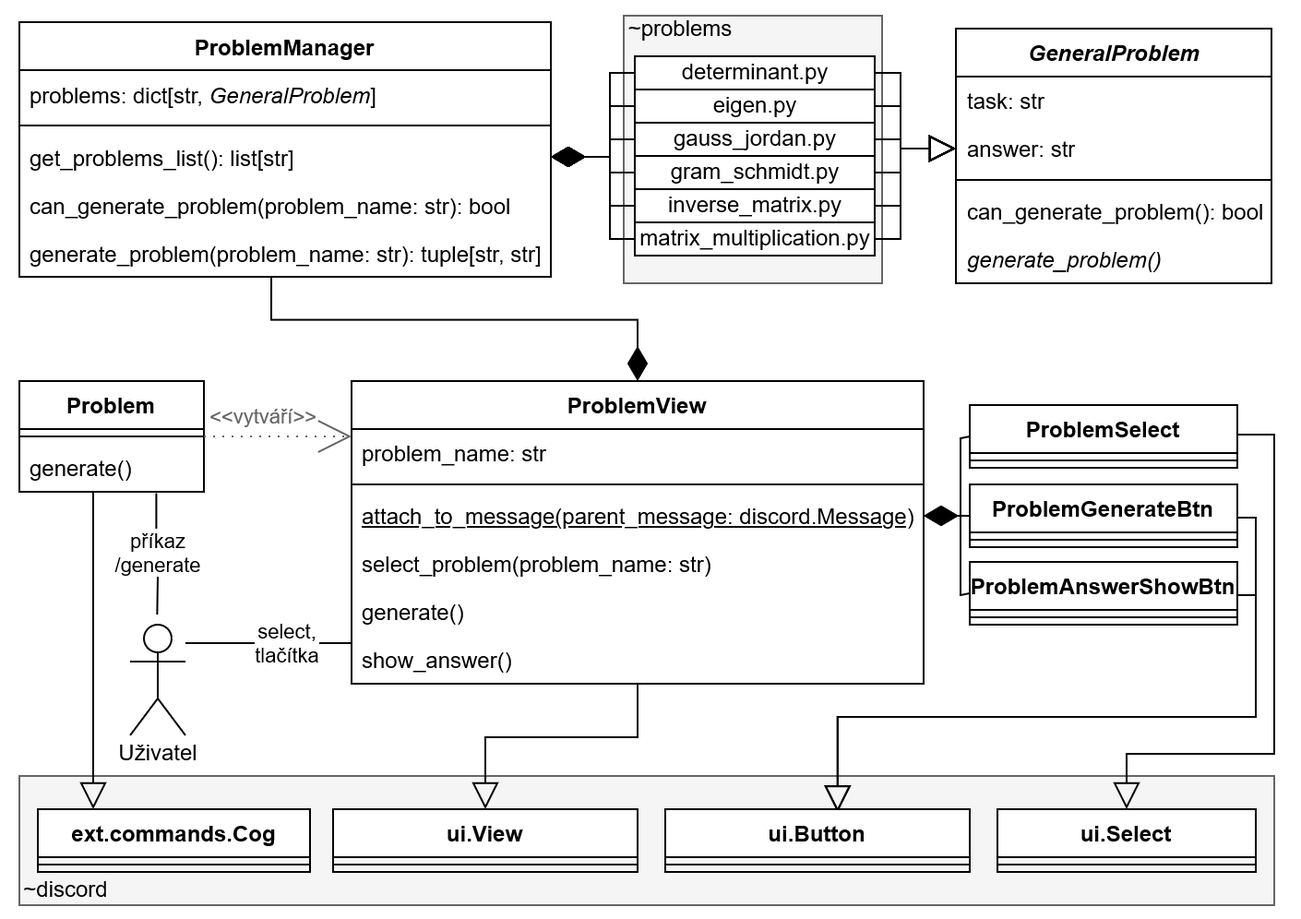
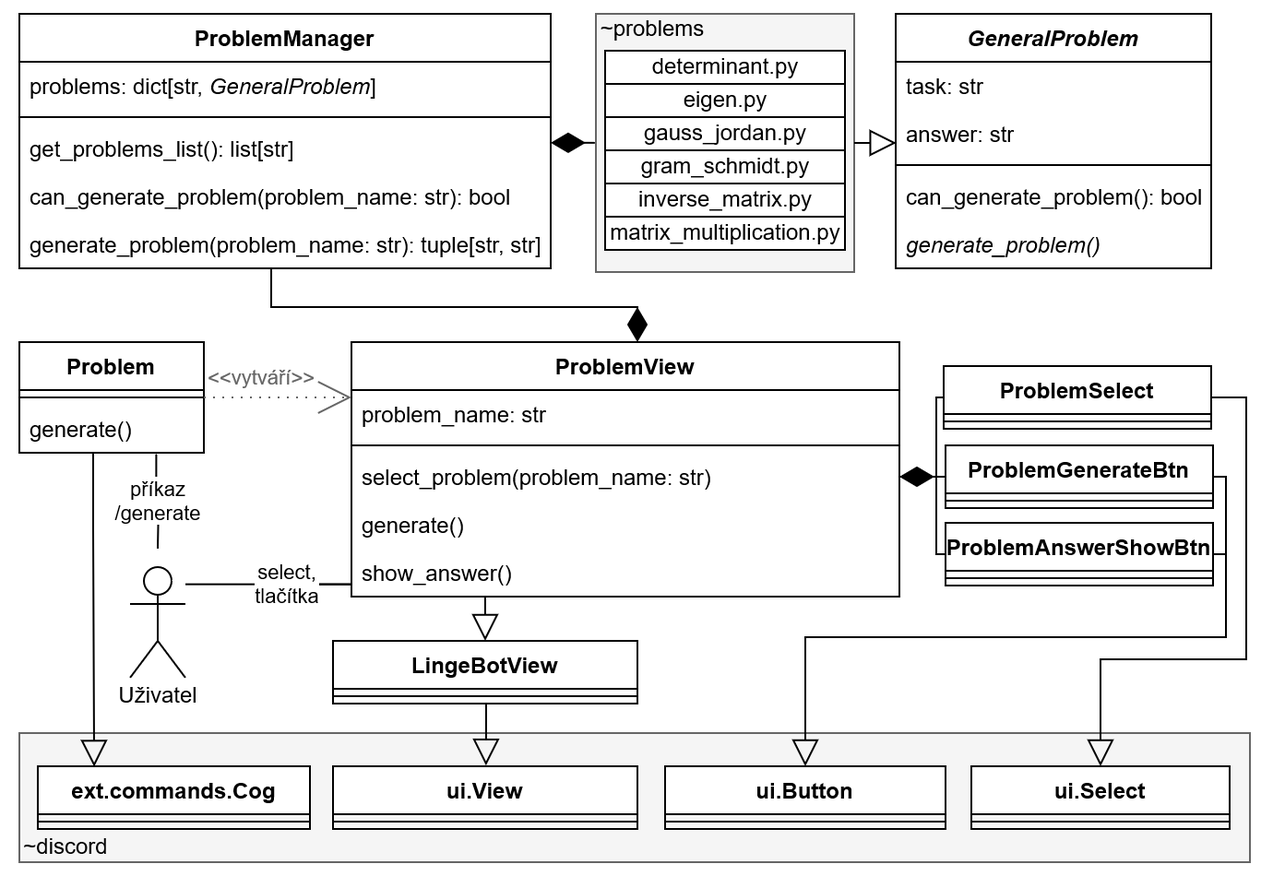
(thesis wip 29)

Changed region(s): [[0.0, 0.0, 0.9971, 0.9768], [0.7167, 0.2747, 0.9659, 0.3358], [0.8413, 0.7632, 0.8725, 0.7937]]

diff --git a/Thesis/document.tex b/Thesis/document.tex
@@ -16,6 +16,8 @@
 \usepackage[table]{xcolor}  % Tabulka s různě barevnými řádky
 % Zdrojové kódy
 \input{code/syntaxhighlight}
+% Barevný verb
+\usepackage{newverbs}
 
 % Pro seznam použité literatury
 \usepackage[backend=biber, style=iso-numeric]{biblatex}
@@ -363,11 +365,11 @@
 	
 	Zvyk ohledně cog souborů (viz \ref{_tag_section_discordpy}) byl během implementace bota dodržen. Logika vykonání příkazů ale byla ve většině případů oddělena do jiných souborů, které se v pomyslné hierarchii projektu nachází na jiné úrovni. Cogs je pak importují a pouze volají jejich metody. Podle toho, zdali jsou tyto ,,jiné`` soubory závislé na knihovně discord.py, je lze rozdělit do dvou skupin.
 	
-	Soubory, jež Discord knihovnu importují (ale nejedná se o cogs), se nachází v adresáři \textit{d\_modules} (zkráceně pro \textit{Discord modules}). Je v nich implementována logika, která je společná pro více příkazů, jako je kontrola oprávnění pro spuštění příkazu nebo odesílání a mazání textových zpráv. Zároveň se zde nachází veškerá logika pro obsluhu interaktivních prvků (např. tlačítek nebo vyskakovacího okna), ale i modul obsahující definici samotného bota.
+	Soubory, jež Discord knihovnu importují, ale nejedná se o cogs, se nachází v adresáři \textit{d\_modules}. Je v nich implementována logika, která je společná pro více příkazů, jako je kontrola oprávnění pro spuštění příkazu nebo odesílání a mazání textových zpráv. Zároveň se zde nachází veškerá logika pro obsluhu interaktivních prvků jako tlačítek a vyskakovacích oken, ale i modul obsahující definici samotného bota.
 	
-	Druhá skupina souborů, které neimportují discord.py, se nachází v adresáři \textit{utils} (zkráceně pro \textit{utilities}). Metody těchto modulů jsou importovány a používány především v \textit{d\_modules} pro společnou funkcionalitu, která je nezávislá na Discordu. Tyto moduly naopak importují knihovny jako sqlite, Matplotlib nebo SymPy a starají se tedy o práci s databází, vykreslování matematických výrazů nebo generování příkladů. % šly by teoreticky použít v jiné aplikaci, problems dostaly vlastní adresář a balík(?)
+	Druhá skupina souborů, které neimportují discord.py, se nachází v adresáři \textit{utils}. Metody těchto modulů jsou importovány a používány především v \textit{d\_modules} pro společnou funkcionalitu, která je nezávislá na Discordu. Tyto moduly naopak importují knihovny jako sqlite, Matplotlib nebo SymPy a starají se tedy o práci s databází, vykreslování matematických výrazů nebo generování příkladů. % šly by teoreticky použít v jiné aplikaci, problems dostaly vlastní adresář a balík(?)
 	
-	Vedle těchto adresářů se ještě nachází soubory \textit{config.json} (pro uložení tokenu bota), \textit{db\_init.py} (vytvoření databáze), \textit{run.py} (spuštění bota) a adresáře \textit{\_database}, \textit{\_logs} a \textit{\_static}. Adresář \textit{\_static} obsahuje Markdown soubory s výpisky z teorie a návody pro počítání příkladů. % nic moc odstavec
+	Vedle těchto adresářů se ještě nachází soubory \textit{config.json} (uložení tokenu bota), \textit{db\_init.py} (vytvoření databáze), \textit{run.py} (spuštění bota) a adresáře \textit{\_database}, \textit{\_logs} a \textit{\_static}. Adresář \textit{\_static} obsahuje Markdown soubory s výpisky z teorie a návody pro počítání příkladů. % nic moc odstavec
 	
 	\begin{figure}[ht]
 		\centering
@@ -377,89 +379,137 @@
 
 	\subsection{Implementace vykreslování matematických výrazů}
 
-	První verze implementace příkazu \verb|/render| byla prostá. Pomocí balíku Matplotlib je vytvořen prázdný obrázek (\textit{figure}), jehož barva odpovídá barvě pozadí Discord klienta ve výchozím nastavení. Parametr příkazu, který obsahuje předpis matematického výrazu, je do obrázku vložen jako text se zapnutým parametrem \textit{render\_math}. Balík Matplotlib se postará o správné vykreslení výrazu a obrázek je uložen do souboru, který je následně odeslán do textového kanálu. Později bylo ukládání do souboru nahrazeno bytovým proudem \textit{io.BytesIO}, který souborové rozhraní pouze simuluje.
+	První verze implementace příkazu \verb|/render| byla prostá. Pomocí balíku Matplotlib je vytvořen prázdný obrázek \textit{figure}, jehož barva odpovídá barvě pozadí Discord klienta ve výchozím nastavení. Parametr příkazu, který obsahuje předpis matematického výrazu, je do obrázku vložen jako text se zapnutým parametrem \textit{render\_math}. Balík Matplotlib se postará o správné vykreslení výrazu a obrázek je uložen do souboru, který je následně odeslán do textového kanálu. Později bylo ukládání do souboru nahrazeno proudem \textit{io.BytesIO}, který souborové rozhraní pouze simuluje.
 
 	Výklad lineární algebry se neobejde bez vykreslování matic, ty ale Matplotlib Mathtext nepodporuje. Balík sice umožňuje nastavit, aby vykreslování používalo místní TeX distribuci, během implementace ale nebylo jasné, kde bude výsledný bot nasazen a jestli zde bude možné TeX nainstalovat. Vykreslování tímto způsobem je navíc pomalejší. Proto byla pro účely bota napsána vlastní logika vykreslování matic.
 	
-	U textu vkládaného do Matplotlib obrázku lze nastavit i jeho souřadnice $x$ a $y$. Matice na vstupu je tedy rozdělena na její jednotlivé prvky, které jsou vykresleny zvlášť na odpovídajících souřadnicích. Pomocí úseček jsou pak vytvořeny hranaté závorky matice. Problém může nastat při určování souřadnic jednotlivých prvků v matici.
+	U textu vkládaného do Matplotlib obrázku lze nastavit i jeho souřadnice $x$ a $y$. Matice na vstupu implementované vykreslovací funkce je rozdělena na své jednotlivé prvky, které jsou vykresleny zvlášť na odpovídajících souřadnicích. Pomocí úseček jsou pak vytvořeny hranaté závorky matice. Problém může nastat při určování souřadnic jednotlivých prvků v matici.
 	
-	Pokud jsou všechny prvky matice jednociferná čísla, pak jejich souřadnice $x$ odpovídá číslu sloupce a $y$ číslu řádku v matici. Tyto souřadnice jsou ještě vynásobeny konstantou, která určuje velikost mezery mezi jednotlivými prvky\footnote{Konstanta u souřadnice $y$ by měla být záporná, protože řádky matice jsou obvykle číslovány odshora, zatímco souřadnice v Matplotlib obrázku mají počátek vlevo dole. V této implementaci je to ale vyřešeno tak, že se jednotlivé řádky matice při vykreslování procházejí pozpátku.}. Jakmile by ale byl některý z prvků matice širší (např. trojciferné číslo), začal by se překrývat se svými sousedními prvky. Proto je potřeba přidat funkcionalitu, která dokáže zjistit šířku prvku v matici. Odsazení je pak nastaveno podle nejširšího nalezeného prvku.
+	Pokud jsou všechny prvky matice jednociferná čísla, pak jejich souřadnice $x$ odpovídá číslu sloupce a $y$ číslu řádku v matici. Tyto souřadnice jsou ještě vynásobeny konstantou, která určuje velikost mezery mezi jednotlivými prvky\footnote{Konstanta u souřadnic $y$ by měla být záporná, protože řádky matice jsou obvykle číslovány odshora, zatímco souřadnice v Matplotlib obrázku mají počátek vlevo dole. V této implementaci je to ale vyřešeno tak, že se jednotlivé řádky matice při vykreslování procházejí pozpátku.}. Jakmile by ale byl některý z prvků matice širší (např. trojciferné číslo), začal by se překrývat se svými sousedními prvky. Proto je potřeba přidat funkcionalitu, která dokáže zjistit šířku prvku v matici. Odsazení je pak nastaveno podle nejširšího nalezeného prvku.
 	
 	Šířku prvku lze určit jeho dočasným vykreslením do samostatného obrázku, u kterého jsou následně zjištěny jeho rozměry. Tento obrázek je opět uložen do proudu BytesIO, který je po zjištění šířky zahozen. Takovýto způsob není nejefektivnější (zejména u vykreslování větších matic), a proto byla implementována rychlejší metoda, která šířku prvků pouze aproximuje.
 
-	Cílem metody je pro zadaný matematický výraz v TeX syntaxi vrátit číslo, které odpovídá jeho délce. Jednotkou délky je počet nejkratších znaků. Písmo vykreslených matematických výrazů je totiž proporcionální a některé znaky tedy mohou být širší než jiné. Za nejkratší znaky se v tomto případě považují číslice a většina malých písmen. Protože se jedná pouze o aproximaci, je důležité, aby metoda délku výrazu přeceňovala (podcenění by opět vedlo k překrývání sousedních prvků matice).
+	Cílem metody je pro zadaný matematický výraz v TeX syntaxi vrátit číslo, které odpovídá jeho délce. Jednotkou délky je počet nejkratších znaků. Písmo vykreslených matematických výrazů je totiž proporcionální a některé znaky tedy mohou být širší než jiné. Za nejkratší znaky se v tomto případě považují číslice a většina malých písmen. Protože se jedná pouze o aproximaci, je důležité, aby metoda délku výrazu přeceňovala. Podcenění by opět vedlo k překrývání sousedních prvků matice.
+		
+	\begin{figure}[ht]
+		\begin{lstlisting}[language=Pseudo1]
+Funkce __approx_tex_len(text: str, nahradit_zlomky: bool) vrací int:
+Krok 1:
+	Pokud nahradit_zlomky:
+		Nahraď všechny výrazy v text ve tvaru "\frac{Č}{J}"
+		za výstup funkce __approx_tex_frac_replace(Č, J).
+Krok 2:
+	Nahraď všechny podřetězce v text,
+	které začínají na "\" a končí libovolným nepísmenným znakem,
+	za dvouznakový řetězec "00".
+Krok 3:
+	Nahraď všechny znaky v text,
+	které se zároveň nachází v "+-=ABCDEFGHKMNOPQRUVWXYZmw",
+	za dvouznakový řetězec "00".
+Krok 4:
+	Odstraň všechny znaky z text,
+	které se zároveň nachází v " _^{}[]".
+Krok 5:
+	Vrať délku upraveného řetězce text.
 	
-	Metoda postupně upravuje vstupní řetězec a nakonec vrací jeho délku (aproximovaná délka vstupního řetězce odpovídá jeho počtu znaků po provedení určitých úprav). Prvním krokem je nahrazení částí textu, které začínají zpětným lomítkem a končí libovolným nepísmenným znakem, za řetězec \verb|00| (dvě nuly). To, že je nahrazujícím znakem nula, není podstatné. Důležité je, že jsou nuly právě dvě. Stejným řetězcem jsou nahrazeny také symboly, u kterých bylo zjištěno, že jsou delší než běžná číslice (např. velká písmena nebo symbol $+$ (plus)). Nakonec jsou zahozeny znaky jako mezery nebo závorky. %todo první věta je žalostná
-	
-	Řetězec \verb|1+\sqrt{2}| (vykreslen jako $1+\sqrt{2}$) je tedy po úpravách změněn na \verb|100002| (podřetězce \verb|+| a \verb|\sqrt| jsou nahrazeny dvěma nulami, závorky jsou zahozeny, výsledná délka je 6 znaků). Délka řetězce \verb|1+\sqrt[N]{2}| ($1+\sqrt[N]{2}$), který je po vykreslení stejně dlouhý, je takto vyhodnocena na 8 znaků, protože velké písmeno přidává další dvě nuly. To je příklad přecenění délky výrazu, jehož důsledkem jsou pak širší mezery mezi prvky v matici.
-	
-	Při určování délky jsou problémové také zlomky psané jako \verb|\frac{x}{y}|, jejichž šířka může být v nejhorším případě vyhodnocena jako dvojnásobek té skutečné (pokud je délka čitatele i jmenovatele stejně dlouhá). Proto se před provedením prvního kroku metoda nejprve rekurzivně volá na všechny zlomky ve vstupním řetězci, které jsou po jejím provedení nahrazeny řetězcem o aproximované délce jejich čitatele, nebo jmenovatele (podle toho, který je delší).
+Funkce __approx_tex_frac_replace(čitatel, jmenovatel: str) vrací str:
+	délka_čitatele = __approx_tex_len(čitatel, false)
+	délka_jmenovatele = __approx_tex_len(jmenovatel, false)
 
-	Stejný problém jako zlomky také způsobují např. kombinační čísla (psaná jako \verb|\binom{x}{y}|), ta se ale běžně v maticích nenachází. Popisovaná metoda by šla dále vylepšovat pro mnoho dalších případů, které by mohly nastat. Jelikož ale byla navržena pro určování šířky prvků v matici, všechny časté scénáře by již měly být pokryté.
-
-	Jelikož je pro vykreslování matic použita vlastní implementace, bylo možné zvolit styl jejich zápisu. Pro svou přehlednost, snadné strojové zpracování a rychlost zápisu byla zvolena syntax podobná maticím v prostředí MATLAB: Do hranatých závorek jsou postupně vypsány prvky matice oddělené čárkou a pro oddělení jednotlivých řádků se místo čárky píše středník.
-
-	Po implementaci metod pro vykreslení základních matematických výrazů a matic bylo potřeba tyto metody zkombinovat, aby bylo možné vykreslovat rovnice obsahující více matic. Uživatelský vstup je nejprve nutné rozdělit na maticové a nematicové části (podvýrazy), pro jejichž vykreslení je pak zvolena příslušná metoda. První podvýraz je vykreslen na nulové souřadnici $x$, která se postupně zvětšuje o aproximovanou délku podvýrazu. Při rozdělování na podvýrazy je nutné ignorovat hranaté závorky u odmocnin (maticový podvýraz je totiž detekován podle hranatých závorek). Aby byl celý výraz správně vertikálně zarovnán, je potřeba předem zjistit počet řádků té nejvyšší matice a podle ní zarovnat zbytek.
+	Vrať řetězec tvořený znaky "0"
+	o délce maximum(délka_čitatele, délka_jmenovatele).
+		\end{lstlisting}
+		\caption{Pseudokód aproximace délky vykresleného výrazu}
+	\end{figure}
 	
-	Posledním krokem bylo přidání podpory pro víceřádkové výrazy zarovnané podle určitého znaku (obvykle podle rovnítka). Pomocí dvou zpětných lomítek je v uživatelském vstupu označen nový řádek. Na každém řádku lze zapsat ampersand, který není vykreslen ve výsledném obrázku a značí, že následující symbol je ten zarovnávací. Každý řádek je podle ampersandu rozdělen na levou a pravou část. Obě tyto části jsou vykresleny na nulové souřadnici $x$, u té levé je ale nastaveno zarovnání doprava (Matplotlib toto u textu umožňuje nastavit parametrem \textit{horizontalalignment}). Vlastní metoda pro vykreslování matic ale nepočítá s přenastavováním zarovnání. Pokud se tedy v levé části řádku nachází matice, je nutné řádek zarovnat opět s pomocí metody pro aproximaci délky výrazu. %todo ne v levé části řádku ale v celém řádku, díky této kontrole lze vynechat krok s maticemi a rovnou sázet mathTEXt
+	\newverbcommand{\h}{\color{color_cyan!95!black}}{}
+	\begin{table}[ht]
+		\centering
+		\caption{Příklady aproximace délky vykresleného výrazu}\medskip
+		\begin{tabular}{ l | l >{\columncolor{gray!10}}l l }\hline
+			&&&\\[-1em]
+			\textbf{Krok 1}&\verb|1+\sqrt{t}|&\verb|1+\sqrt[N]{t}|&\verb|t^2\approx|\h|\frac{123}{4}|\\
+			&\verb|1+\sqrt{t}|&\verb|1+\sqrt[N]{t}|&\verb|t^2\approx|\h|000|\\\hline
+			&&&\\[-1em]
+			\textbf{Krok 2}&\verb|1+|\h|\sqrt|\verb|{t}|&\verb|1+|\h|\sqrt|\verb|[N]{t}|&\verb|t^2|\h|\approx|\verb|000|\\
+			&\verb|1+|\h|00|\verb|{t}|&\verb|1+|\h|00|\verb|[N]{t}|&\verb|t^2|\h|00|\verb|000|\\\hline
+			&&&\\[-1em]
+			\textbf{Krok 3}&\verb|1|\h|+|\verb|00{t}|&\verb|1|\h|+|\verb|00[|\h|N|\verb|]{t}|&\verb|t^200000|\\
+			&\verb|1|\h|00|\verb|00{t}|&\verb|1|\h|00|\verb|00[|\h|00|\verb|]{t}|&\verb|t^200000|\\\hline
+			&&&\\[-1em]
+			\textbf{Krok 4}&\verb|10000|\h|{|\verb|t|\h|}|&\verb|10000|\h|[|\verb|00|\h|]{|\verb|t|\h|}|&\verb|t|\h|^|\verb|200000|\\
+			&\verb|10000t|&\verb|1000000t|&\verb|t200000|\\\hline
+			&&&\\[-1em]
+			\textbf{Krok 5}&6&8&7\\\hline
+			&&&\\[-1em]
+			\textbf{Porovnání}&$1+\sqrt{t}$&$1+\sqrt[N]{t}$&$t^2\approx\frac{123}{4}$\\
+			&$123456$&$12345678$&$1234567$\\
+		\hline\end{tabular}
+	\end{table}
+	
+	Aproximovaná délka vykresleného výrazu odpovídá počtu znaků vstupního řetězce po tom, co je na něm provedeno několik úprav. Kroky 2 a 3 nahrazují určité části textu řetězcem s dvěma nulami. To, že je nahrazujícím znakem nula, není podstatné. Důležité je, že jsou nuly právě dvě. Následující krok odebere řídící znaky a mezery, pak už je vrácena délka řetězce.
+	
+	Při určování délky jsou problémové zlomky psané jako \verb|\frac{Č}{J}|. V nejhorším případě, pokud je délka čitatele \textit{\texttt{Č}} i jmenovatele \textit{\texttt{J}} stejně dlouhá, by byla šířka zlomku vyhodnocena jako dvojnásobek té skutečné. Proto byl přidán krok 1, ve kterém se metoda rekurzivně volá na všechny zlomky ve vstupním řetězci. Ty jsou pak nahrazeny řetězcem o aproximované délce jejich čitatele, nebo jmenovatele.
+
+	Stejný problém jako zlomky také způsobují kombinační čísla \verb|\binom{N}{K}|, ta se ale běžně v maticích nenachází. Popisovaná metoda by šla dále vylepšovat pro mnoho dalších případů, které by mohly nastat. Jelikož ale byla navržena pro určování šířky prvků v matici, všechny časté scénáře by již měly být pokryté. % \iota
+
+	Jelikož je pro vykreslování matic použita vlastní implementace, bylo možné zvolit styl jejich zápisu. Pro svou přehlednost, snadné strojové zpracování a rychlost zápisu uživatelem byla zvolena syntax podobná maticím v prostředí MATLAB: Do hranatých závorek jsou postupně vypsány prvky matice oddělené čárkou a pro oddělení jednotlivých řádků se místo čárky píše středník.
+
+	Po implementaci metod pro vykreslení základních matematických výrazů a matic bylo potřeba tyto metody zkombinovat, aby bylo možné vykreslovat rovnice obsahující více matic. Uživatelský vstup je nejprve nutné rozdělit na maticové a nematicové části (podvýrazy), pro jejichž vykreslení je pak zvolena příslušná metoda. První podvýraz je vykreslen na nulové souřadnici $x$, která se postupně zvětšuje o aproximovanou délku podvýrazu. Při rozdělování na podvýrazy je nutné ignorovat hranaté závorky u odmocnin, maticový podvýraz je totiž detekován podle hranatých závorek. Aby byl celý výraz správně vertikálně zarovnán, je potřeba předem zjistit počet řádků té nejvyšší matice a podle ní určovat souřadnici $y$ zbylých podvýrazů.
+	
+	Posledním krokem bylo přidání podpory pro víceřádkové výrazy zarovnané podle určitého znaku. Obvykle se zarovnává podle rovnítka. Pomocí dvou zpětných lomítek je v uživatelském vstupu označen nový řádek. Na každém řádku lze zapsat ampersand, který není vykreslen ve výsledném obrázku a značí, že následující symbol je ten zarovnávací. Každý řádek je podle ampersandu rozdělen na levou a pravou část. Obě tyto části jsou vykresleny na nulové souřadnici $x$, u té levé je ale nastaveno Matplotlib zarovnání vpravo pomocí parametru \textit{horizontalalignment}.
+	
+	Vlastní metoda pro vykreslování matic ale nepočítá s přenastavováním zarovnání na úrovni balíku Matplotlib. Pokud se tedy ve zpracovávaném řádku nachází matice, pak je jeho levá část zarovnána pomocí metody pro aproximaci délky výrazu: Matplotlib zarovnání je ponecháno za výchozí hodnotě vlevo a souřadnice $x$ je rovna záporné aproximované délce. V opačném případě, kdy se v řádku žádné matice nevyskytují, je krok s rozdělováním na podvýrazy přeskočen a rovnou se sází Matplotlib Mathtext.
 	
 	\subsection{View a interaktivní prvky}
 	
-	K odeslané zprávě s vykresleným matematickým výrazem je přidána trojice tlačítek \textit{Potvrdit}, \textit{Upravit} a \textit{Smazat}. Aby mohl být ke zprávě přidán jakýkoliv interaktivní prvek, musí být nejprve vytvořen tzv. view (pohled). View slouží jako kontejner pro všechny interaktivní prvky a ke zprávě je přidán přes stejnojmenný parametr (viz obrázek \ref{_tag_img_discordpy}). Pro definici složitější view logiky je možné vytvořit třídu, která dědí z obecného view. Do této třídy se pak přidají atributy pro uchování určitého stavu a metody pro změnu tohoto stavu. Každý interaktivní prvek má referenci na své view, díky tomu v něm lze např. po stisknutí tlačítka volat určitou metodu.
+	K odeslané zprávě s vykresleným matematickým výrazem je přidána trojice tlačítek \textit{Potvrdit}, \textit{Upravit} a \textit{Smazat}. Aby mohl být ke zprávě přidán jakýkoliv interaktivní prvek, musí být nejprve vytvořeno tzv. view. To slouží jako kontejner pro všechny interaktivní prvky a ke zprávě je přidáno přes stejnojmenný parametr (viz obrázek \ref{_tag_img_discordpy}). Pro definici složitější view logiky je možné vytvořit třídu, která dědí z obecného view. Do této třídy se pak přidají atributy pro uchování určitého stavu a metody pro změnu tohoto stavu. Každý interaktivní prvek má referenci na své view, díky tomu v něm lze např. po stisknutí tlačítka volat určitou metodu.
 	
-	V tomto případě byla vytvořena třída, která dědí z view a navíc uchovává referenci na zprávu, ke které je přiřazena, a na uživatele, který zadal příkaz vyvolávající tuto zprávu. Odkaz na uživatele se využívá pro kontrolu oprávnění a odkaz na původní zprávu je potřeba pro funkci tlačítka \textit{Smazat}.
+	Pro případy bota byla vytvořena třída \textit{LingeBotView}, která rozšiřuje obecné view. Třída uchovává referenci na zprávu, ke které je přiřazena, a na uživatele, který zadal příkaz vyvolávající tuto zprávu. Odkaz na uživatele se využívá pro kontrolu oprávnění. Odkaz na původní zprávu v tomto případě není potřeba. Z \mbox{LingeBotView} ale dědí další třídy, které se používají pro uživatelské rozhraní výkladu teorie a generace příkladů. Tyto třídy již odkaz na původní zprávu využívají. Protože se obecné view nikde jinde nepoužívá, jsou tyto třídy pro zjednodušení dále v textu nazývány jako view. 
 	
-	Jednotlivá tlačítka také dědí z podobné obecné třídy, u které primárně přepisují metodu \textit{callback} volanou po jejich stisknutí. Tlačítko pro úpravu matematického výrazu navíc musí mít uložený původní uživatelský vstup, který je předvyplněn v textovém vstupu vyvolaného vyskakovacího okna, a barevné schéma, které bylo pro dané vykreslení použito. Vyskakovací okno po svém potvrzení volá stejnou funkci jako příkaz \verb|/render|, jen místo nové zprávy upraví tu původní. Zvolené barevné schéma se uchovává v proměnné, aby se nemuselo při každé úpravě výrazu znovu zjišťovat.
-	
-	Vlastní třídy rozšiřující základní view se používají i pro uživatelské rozhraní výkladu teorie a generace příkladů. Protože byl ve všech případech nakonec potřeba odkaz na rodičovskou zprávu a na zadavatele příkazu, byla pro tyto účely vytvořena třída, která tuto funkcionalitu implementuje a ze které ostatní dědí. Tyto třídy se již používají v samotné obsluze příkazů a dále v textu budou nazývány jako view, jelikož obecné view se už jinde nepoužívá.
-	
-	% TODO  5.2.1, 5.2.2, 5.2.3 vyžadují revizi --------
-	% Důkladně zkontrolovat text
-	% Lepší obrázek u struktury projektu
-	% U popisů funkce lepší použít obr/diagram/pseudokod
-	% Více popsat render align/matrix/... algoritmus ?
-	% TODO ---------------------------------------------
-		
+	Jednotlivá tlačítka také dědí z podobné obecné třídy, u které primárně přepisují metodu \textit{callback} volanou po jejich stisknutí. Tlačítko pro úpravu matematického výrazu navíc musí mít uložený původní uživatelský vstup, který je předvyplněn v textovém vstupu vyvolaného vyskakovacího okna, a barevné schéma, které bylo pro dané vykreslení použito. Vyskakovací okno po svém potvrzení volá stejnou funkci jako příkaz \verb|/render|, jen místo nové zprávy upraví tu původní. Zvolené barevné schéma se uchovává v proměnné, aby se nemuselo při každé úpravě výrazu znovu zjišťovat z databáze.
+			
 	% - zmínit/zjistit WEBHOOKS TOKEN EXPIRATION AFTER 15 MINUTES ?
 	
 	\subsection{Zpracování chyb}
 	
-	Pokud je za běhu bota v nějaké části kódu vyvolána výjimka, neznamená to ukončení programu. Boti napsaní v knihovně discord.py výjimky v podstatě ignorují. Průběh funkce, ve které výjimka vznikla, sice není dokončen a Discord uživateli zahlásí chybové hlášení, bota by však tímto způsobem nemělo být možné vyřadit z provozu. Ve výchozím nastavení knihovny je výjimka vypsána pouze do standardního chybového výstupu.
+	Pokud je za běhu bota v nějaké části kódu vyvolána výjimka, neznamená to ukončení programu. Knihovna discord.py výjimky v podstatě ignoruje. Ve výchozím nastavení jsou pouze vypsány do standardního chybového výstupu. Průběh funkce, ve které výjimka vznikla, sice není dokončen a Discord uživateli zobrazí hlášku ,,interakce se nezdařila``, bota by však tímto způsobem nemělo být možné vyřadit z provozu.
 	
-	Do implementovaného bota byla přidána funkcionalita logování chyb do souboru. Zároveň byl vytvořen cog \textit{on\_error}, který hlásí chyby uživateli. Výjimka, která byla vyvolána z důvodu nedostatečného oprávnění uživatele pro vykonání určité akce, může při používání bota na serveru nastávat běžně. Proto není součástí logování a má svou připravenou odpověď pro uživatele (ve stylu \textit{Nemáte dostatečná oprávnění\dots}). Tuto výjimku vyvolává dekorátor přidaný knihovnou, který kontroluje, zdali je uživatel administrátor. Stejné chování bylo implementováno i do vlastní funkce pro kontrolu oprávnění.
+	Do implementovaného bota byla přidána funkce logování chyb do textového souboru. Zároveň byl vytvořen cog \textit{on\_error}, který hlásí chyby uživateli. Výjimka, která byla vyvolána z důvodu nedostatečného oprávnění uživatele pro vykonání určité akce, může při používání bota na serveru nastávat běžně. Proto není součástí logování a má svou připravenou odpověď. Tuto výjimku vyvolává dekorátor přidaný knihovnou, který kontroluje, zdali je uživatel administrátor. Vyvolání stejné výjimky bylo implementováno i do vlastní funkce pro kontrolu, která bere v potaz roli moderátora a nastavení oprávnění na daném serveru.
 	
-	U ostatních výjimek je do příslušného textového kanálu odeslán polední řádek jejich výpisu. Tento přístup není vždy žádoucí, protože může případným útočníkům pomoci lépe pochopit vnitřní implementaci programu. Zdrojové kódy tohoto bota jsou ale dohledatelné, jelikož je tvořen s možností provozu vlastní instance a případného rozšiřování funkcionality. Díky výpisu chyb do chatu mohou uživatelé tyto chyby snadněji nahlašovat.
+	U ostatních výjimek je do příslušného textového kanálu odeslán polední řádek jejich výpisu. Tento přístup není vždy žádoucí, protože může případným útočníkům pomoci lépe pochopit vnitřní implementaci programu. Zdrojové kódy tohoto bota jsou ale dohledatelné, jelikož je tvořen s možností provozu vlastní instance a případného rozšiřování jeho obsahu. Díky výpisu chyb do chatu mohou uživatelé tyto chyby snadněji nahlašovat.
 	
 	%Pro zdůraznění má text výpisu chyb červenou barvu. Barevný text na Discordu je ale značně omezen. Využívá možnosti odesílat zdrojové kódy se zvýrazněním syntaxe.
 	
 	\subsection{Implementace výkladu teorie}
 
-	% - Zmínit vytvoření samotných Markdown souborů (?)
-	%todo ---------------------------------------------
+	Před implementací logiky výkladu teorie byly vytvořeny samotné Markdown soubory. Ty ve formě převážně odrážkových výpisků pokrývají určitá témata z lineární algebry. Souborů je celkem 13 a zaměřují se především na vektorové prostory a lineární zobrazení mezi nimi.
 
 	Pro výběr teoretického tématu se využívá výběrový seznam. Názvy jednotlivých položek v seznamu odpovídají názvům Markdown souborů, ze kterých se čerpají výpisky pro výklad teorie. Podobně jako u tlačítka lze u výběrového seznamu využít metody \textit{callback}, která se volá po zvolení některé z položek. Název zvolené položky je uložen do atributu, který je již předán do view obstarávajícího zobrazení výpisků.% (\textit{TheoryThemeView}).
 	
-	Po výběru určitého tématu se tedy odešle zpráva obsahující view pro teorii, které si z Markdown souboru načte výpisky ke zvolenému tématu do interní proměnné. Z toho důvodu se změna obsahu v souborech s výpisky projeví až při dalším použití příkazu \verb|/render|. Text výpisků je podle nadpisů druhé úrovně rozdělen na jednotlivá podtémata, jejichž výpis je jediným obsahem úvodní zprávy. Tlačítka \textit{Další}, \textit{Předchozí} a nový výběrový seznam slouží pro přepínání podtémat pomocí metod ve view.
+	Po výběru určitého tématu se tedy odešle zpráva obsahující view pro teorii, které si z Markdown souboru načte výpisky ke zvolenému tématu do interní proměnné. Z toho důvodu se změna obsahu v souborech s výpisky projeví až při dalším použití příkazu \verb|/explain|. Text výpisků je podle nadpisů druhé úrovně rozdělen na jednotlivá podtémata, jejichž seznam je jediným obsahem úvodní zprávy. Tlačítka \textit{Další}, \textit{Předchozí} a nový výběrový seznam využívají metody ve view pro přepínání právě zobrazeného podtématu.
 	
-	Metoda pro změnu podtémat nejprve zpracuje text patřící k aktuálně vybranému podtématu a rozdělí ho na jednotlivé zprávy, které jsou následně odeslány do textového kanálu. Na odeslané zprávy si view drží referenci. Jakmile je podtéma opět změněno a odešlou se zprávy nové, ty staré se smažou (a reference nyní ukazuje na ty nové). Před smazáním starých zpráv se jako nová rodičovská zpráva daného view nastaví ta poslední odeslaná. Díky tomu zůstanou ovládací prvky vždy dole.
+	Metoda pro změnu podtémat nejprve zpracuje text patřící k aktuálně vybranému podtématu a rozdělí ho na jednotlivé zprávy, které jsou následně odeslány do textového kanálu. Na odeslané zprávy si view drží referenci. Jakmile je podtéma opět změněno a odešlou se zprávy nové, ty staré se smažou a reference nyní ukazuje na ty nové. Před smazáním starých zpráv se jako nová rodičovská zpráva daného view nastaví ta poslední odeslaná. Díky tomu zůstanou ovládací prvky vždy dole.
 	
-	Odesílání a mazání více zpráv není okamžité. Discord API obsahuje endpoint pro instantní smazání většího množství zpráv, který je implementován v knihovně discord.py. Tato funkce ale během testování nefungovala spolehlivě a vybrané zprávy nebyly ve zdánlivě náhodných případech smazány. Zprávy navíc nebylo možné po použití funkce smazat běžným způsobem (po jednom). Ekvivalentní endpoint pro odeslání více zpráv neexistuje, proto jsou zprávy odesílány i mazány po jednom. Pokud je zpráv více jak pět, byla mezi jednotlivé akce přidána krátká prodleva, aby se předešlo omezením proti spamu ze strany Discordu (\textit{rate limiting}).
+	Odesílání a mazání více zpráv není okamžité. Discord API obsahuje endpoint pro instantní smazání většího množství zpráv, který je implementován v knihovně discord.py. Tato funkce ale během testování nefungovala spolehlivě a vybrané zprávy nebyly ve zdánlivě náhodných případech smazány. Zprávy navíc nebylo možné po použití této funkce smazat běžným způsobem jednu po druhé. Ekvivalentní endpoint pro odeslání více zpráv neexistuje, proto jsou zprávy odesílány i mazány po jednom. Pokud je zpráv více jak pět, byla mezi jednotlivé akce přidána krátká prodleva, aby se předešlo omezením proti spamu ze strany Discordu (\textit{rate limiting}).
 		
 	% - fwd to dms
 	
 	\subsection{Zpracování Markdown souborů}
 	
-	Při tvorbě materiálů pro výuku matematiky je často potřeba použít určitý matematický symbol nebo výraz jako součást věty. Discord ale neumožňuje horizontálně vkládat obrázky mezi text, a proto je jedinou možností použít znaky Unicode. Pro usnadnění je možné v Markdown souborech využít HTML značek \verb|sup| a \verb|sub| pro psaní horních a dolních indexů. Protože Discord tyto značky nepodporuje, je jejich obsah převeden na Unicode znaky při rozdělování textu do jednotlivých podtémat. Pro převod se používá Python balík \textit{UnicodeIt}. Vytvořené zápisky pro lineární algebru často používají dolní indexy. Počet znaků, které existují v Unicode ve variantě dolního indexu, je ale omezený. Pokud kvůli neexistujícímu znaku nedokáže balík \textit{UnicodeIt} obsah značky \verb|sub| převést, je místo toho daný text vložen mezi zpětné uvozovky. Discord pak tuto část textu reprezentující dolní index zformátuje jako jednořádkový zdrojový kód: Písmo je neproporcionální, má menší velikost a tmavší pozadí. Text se díky tomu více odlišuje od zbytku a tváří se jako pomocný symbol.
+	Při tvorbě materiálů pro výuku matematiky je často potřeba použít určitý matematický symbol nebo výraz jako součást věty. Discord ale neumožňuje horizontálně vkládat obrázky mezi text, a proto je jedinou možností použít znaky Unicode. Pro usnadnění je možné v Markdown souborech využít HTML značek \verb|sup| a \verb|sub| pro psaní horních a dolních indexů. Protože Discord tyto značky nepodporuje, je jejich obsah převeden na Unicode znaky při rozdělování textu do jednotlivých podtémat.
+	
+	Pro převod se používá Python balík \textit{UnicodeIt}. Vytvořené zápisky pro lineární algebru často používají dolní indexy. Počet znaků, které existují v Unicode ve variantě dolního indexu, je ale omezený. Pokud kvůli neexistujícímu znaku nedokáže UnicodeIt obsah značky \verb|sub| převést, je místo toho daný text vložen mezi zpětné uvozovky. Discord pak tuto část textu reprezentující dolní index zformátuje jako jednořádkový zdrojový kód: Písmo je neproporcionální, má menší velikost a tmavší pozadí. Text se díky tomu více odlišuje od zbytku a tváří se jako pomocný symbol.
 	
 	Pro nahrazení textu umístěného mezi dvoudolary za obrázek s vykresleným matematickým výrazem je nejprve celý text podle dvoudolarů rozdělen na části. Aby nebylo nutné detekovat, které části jsou určené pro vykreslení a které jsou obyčejný text, bylo přidáno pravidlo, že zprávy pro vykreslení musí začínat řetězcem \verb|$render|. Tento řetězec je případně zahozen a zbytek textu je vstupem vykreslovací funkce. Pravidla pro zápis jsou tedy stejná jako u příkazu \verb|/render|.
 	
 	Discord sice umožňuje, aby jediná zpráva najednou obsahovala text i obrázky, problémem ale je, že jsou všechny obrázky umístěny na konci zprávy pod veškerým textem. Proto je rozdělování na více zpráv jedinou možností, jak zajistit přesné umístění obrázků v odeslaném textu. Pokud zpráva obsahuje internetový odkaz, který míří na určitý obrázek, pak ho Discord automaticky zobrazí. Umístěním takového odkazu mezi dvoudolary se opět zajistí správné umístění obrázku z internetu.
 	
-	Bot automaticky rozděluje zprávy, které jsou delší než 2000 znaků, kvůli omezením ze strany Discordu. Využívá se Python modulu \textit{textwrap}, díky kterému se rozdělení zprávy může nacházet pouze na místě mezery nebo nového řádku. Pokud by automatické rozdělení nebylo vhodně zvoleno, je možné opět použít dvoudolar, který případně značí, kde bude zpráva rozdělena.
+	Bot automaticky rozděluje zprávy, které jsou delší než 2000 znaků, kvůli omezením ze strany Discordu. Využívá se Python modulu \textit{textwrap}, díky kterému se rozdělení zprávy může nacházet pouze na místě mezery nebo nového řádku. Pokud by automatické rozdělení nebylo vhodně zvoleno, je možné opět použít dvoudolar, který značí, kde bude zpráva rozdělena.
 	
 	\subsection{Implementace generace příkladů}
 	
-	Podobně jako u výkladu teorie, implementace uživatelského rozhraní u generátoru příkladů využívá komplexnějšího view. Logika odesílání zpráv s návodem po stisknutí tlačítka \textit{Jak počítat?} používá stejné funkce jako výklad teorie. Logika zobrazování příkladů a jejich výsledků se už liší.
+	Podobně jako u výkladu teorie, implementace uživatelského rozhraní generátoru příkladů využívá komplexnějšího view. Logika odesílání zpráv s návodem po stisknutí tlačítka \textit{Jak počítat?} používá stejné funkce jako výklad teorie. Logika zobrazování příkladů a jejich výsledků se už liší.
 	
 	Dokud se nevyužije možnosti zobrazení návodu, který může být tvořen více odeslanými zprávami, tak je rodičovská zpráva daného view stále stejná a její obsah je modifikován na základě stisknutých tlačítek. Tato zpráva obsahuje text a maximálně jeden obrázek. View má v sobě uložený řetězec se zadáním a řešením aktuálního příkladu. Po generaci nového příkladu je obsahem zprávy text zadání a po kliknutí na \textit{Zobrazit výsledek} je obsah změněn na text řešení.
 	
@@ -478,7 +528,7 @@
 	
 	Do bota byly přidány generátory příkladů pro výpočet násobení matic, soustav rovnic, inverzních matic, vlastních vektorů a determinantu. Příklady pro výpočet soustavy rovnic obsahují tři neznámé a vedou na Gaussovu–Jordanovu eliminační metodu. Příklad tedy začíná maticí s rozměrem 3$\times$3, která musí být převedena na jednotkovou, a tříprvkovým vektorem s výsledky. Pokud by byla počáteční matice vygenerována úplně náhodně, výsledek by pak pravděpodobně obsahoval desetinná čísla, což není pro výukové materiály vhodné. Proto je nejdříve vytvořena jednotková matice, na které je provedeno několik náhodných gaussovských operací, které nemění její lineární obal. Pro snazší kontrolu obsahuje řetězec s řešením kromě výsledku i mezikrok výpočtu, ve kterém je matice v horním stupňovitém tvaru. Pro tento účel je použita metoda LU rozkladu bez zlomků z balíku SymPy. Po použití této metody je ještě každý řádek matice vydělen jeho největším společným dělitelem. Tato podoba matice se totiž nejvíce podobá té, ke které se uživatel dopracuje při ručním výpočtu Gaussovy eliminační metody.
 	
-	Další kategorií příkladů, kde není vhodné generovat zadání úplně náhodně, je výpočet inverzní matice. V tomto případě je potřeba vygenerovat celočíselnou matici, jejíž inverze je také tvořena celými čísly. Tento požadavek splňují matice, které mají determinant roven $\pm1$. Determinant matice v horním (nebo dolním) stupňovitém tvaru je roven součinu jejích diagonálních prvků a determinant součinu dvou čtvercových matic stejné velikosti je roven součinu determinantů těchto dvou matic \cite{lit_lingebra}. Náhodnou matici, která má determinant roven jedné, tedy lze vytvořit součinem dvou matic, kde jedna je v horním a druhá v dolním stupňovitém tvaru. Obě matice musí mít na diagonále samé jedničky, zbylé prvky jsou zvoleny náhodně.
+	Další kategorií příkladů, kde není vhodné generovat zadání úplně náhodně, je výpočet inverzní matice. V tomto případě je potřeba vygenerovat celočíselnou matici, jejíž inverze je také tvořena celými čísly. Tento požadavek splňují matice, které mají determinant roven $\pm1$. Determinant matice v horním (nebo dolním) stupňovitém tvaru je roven součinu jejích diagonálních prvků a determinant součinu dvou čtvercových matic stejné velikosti je roven součinu determinantů těchto dvou matic \cite{lit_lingebra}. Náhodnou matici, která má determinant roven jedné, tedy lze vytvořit součinem dvou matic, kde jedna je v horním a druhá v dolním stupňovitém tvaru. Obě matice musí mít na diagonále samé jedničky, aby byl jejich determinant roven jedné, a zbylé prvky jsou zvoleny náhodně.
 	
 	% eigenvalues/eigenvectors
 	
@@ -510,28 +560,31 @@
 	\begin{figure}[ht]
 		\centering
 		\includegraphics[width=\textwidth]{img/SetupCommands}
-		\caption{Příkazy pro nastavení}
+		\caption{Seznam příkazů pro nastavení}
 	\end{figure}
 	
 	Příkazy \verb|/setup| jsou součástí tzv. skupiny podpůrných příkazů. Běžný příkaz je zapsán pomocí lomítka, po němž následuje název příkazu, který musí být jednoslovný. Příkazy ze skupiny se zadávají ve tvaru \verb|/<název_skupiny> <název_příkazu>|. Díky tomu mohou mít podobné příkazy stejný začátek a seznam příkazů je tak přehlednější. Skupiny příkazů je možné vnořovat, toho využívají příkazy \verb|/setup permissions|.
 	
 	Spuštění jednoho z příkazů nastavujících oprávnění změní v tabulce \textit{permissions} na řádku daného serveru příslušný atribut. Záznam v tabulce není přidán hned po připojení bota na server, ale až po prvním spuštění nastavujícího příkazu. Dokud záznam neexistuje, využívá se výchozích hodnot definovaných ve zdrojovém kódu. První volání příkazu nejprve přidá řádek s těmito výchozími hodnotami do tabulky a pak změní vybraný atribut.
 	
-	Při každém pokusu o spuštění příkazu nebo interakci s view jako první proběhne kontrola oprávnění. Funkce obstarávající tuto kontrolu přistupuje do databáze a má k dispozici objekt interakce, ze kterého lze zjistit údaje o daném uživateli. Pokud má uživatel dostatečná oprávnění, funkce proběhne bez efektu a obsluha jeho interakce může pokračovat. Při nedostatečných právech je vyhozena výjimka, na kterou reaguje cog \textit{on\_error}. Uživateli je v tomto případě odeslána zpráva informující o nedostatečných právech. Implementace funkce kontroly minimalizuje počet přístupů do databáze. Viz diagram/pseudokód. % TODO
+	Při každém pokusu o spuštění příkazu nebo interakci s view jako první proběhne kontrola oprávnění. Funkce obstarávající tuto kontrolu přistupuje do databáze a má k dispozici objekt interakce, ze kterého lze zjistit údaje o daném uživateli. Pokud má uživatel dostatečná oprávnění, funkce proběhne bez efektu a obsluha jeho interakce může pokračovat. Při nedostatečných právech je vyhozena výjimka, na kterou reaguje cog \textit{on\_error}. Uživateli je v tomto případě odeslána zpráva informující o nedostatečných právech.
 	
-	% app_commands.Group
-	% permissions.check ...
+	Implementace funkce kontroly minimalizuje počet přístupů do databáze. Administrátorům je např. vždy povoleno použít jakýkoliv příkaz nehledě na nastavení oprávnění daného serveru. Nastavení je z databáze získáno až poté, co je z objektu interakce zjištěno, že uživatel administrátorem není. Identifikátor role LingeMod je z databáze získán až v posledním případě, kdy je zjištěno, že příkaz není dostupný všem.
+	
 	% /setup @app_commands.guild_only : Due to a Discord limitation, this decorator does nothing in subcommands and is ignored.
 	% $> lingemod_reset
 	% --------------------------------------------------------------------------------------------------------------------------
 	% Příkaz /dm
-	% $> slash_sync	
-	
-	% Problém testování nových funkcí u již nasazeného bota, udělat druhého ? (pak je problém slash commands sync (to by mohly řešit hybridní příkazy (u nich je ale problém ctx vs itx ?)))
-	
-	% Problém: Discord přestal vykreslovat kurzívu u výrazů jako _f_(_x_), ale *f*(_x_) funguje (za ukončujícím podtržítkem nesmí začínat závorka)
-	
+	% $> slash_sync
+	% - Problém testování nových funkcí u již nasazeného bota, udělat druhého ? (pak je problém slash commands sync (to by mohly řešit hybridní příkazy (u nich je ale problém ctx vs itx ?)))
+		
 	\section{Nasazení a zpětná vazba}
+	
+	Po implementaci všech navrhovaných funkcí byl bot nasazen do testovacího provozu a zpřístupněn skupině uživatelů na otestování. Součástí bylo také dotazníkové šetření, kterého se zúčastnilo celkem devět respondentů.
+	
+	<< GRAFY DO PŘÍLOHY, ZDE SE K NIM VYJÁDŘIT ? >>
+	
+	\subsection{Návrhy na vylepšení}
 	
 	% Jak vylepšit?
 	% * Využívat threads nebo nějak lépe spravovat konverzaci, nyní používání bota na větším serveru chaos
@@ -540,8 +593,12 @@
 	% * Co se týče zápisků z teorie: přidat souvislost s IT
 	% * Multilang commands
 	% * Kód: Použít SQLAlchemy
+	
+	\subsection{Vhodnost platformy Discord}
+	
 	% Vhodnost platformy Discord
 	% * Rozdíly mezi PC/web/phone/...
+	% * Problém: Discord přestal vykreslovat kurzívu u výrazů jako _f_(_x_), ale *f*(_x_) funguje (za ukončujícím podtržítkem nesmí začínat závorka)
 	
 	\chapter{Závěr}
 	

diff --git a/Bot/cogs/other.py b/Bot/cogs/other.py
@@ -8,8 +8,7 @@ from discord import app_commands
 from discord.ext import commands
 
 import d_modules.permissions as permissions
-from d_modules.bot import SECRET1
-from d_modules.common_modules import MessageView, UrlGitBookButton, UrlGitHubButton, UrlGoogleFormsButton
+from d_modules.common_modules import MessageView, UrlGitHubButton, UrlManualButton
 from d_modules.messages import try_dm_user
 from utils.file_io import txt_read
 
@@ -53,36 +52,27 @@ class Other(commands.Cog):
         `/help ` – Zobrazit tuto nápovědu
         `/ping ` – Ověřit dostupnost bota
         
-        `/setup` – Nastavení pro administrátory (viz podrobná nápověda)
+        `/setup` – Nastavení pro administrátory
         
         ### Podrobná nápověda
-        Kompletní nápověda se nachází na [GitBook](https://lingebot.gitbook.io/lingebot-napoveda/)*
-        \* Na nové (lepší) verzi manuálu se pracuje
-        
-        ### Zpětná vazba
-        Jedním z bodů mé práce je také __**vyhodnotit zpětnou vazbu od uživatelů**__
-        
-        Pokud budete bota používat, vyplňte pak prosím tento dotazník:
-        {SECRET1}        
-        
-        Děkuji
+        LingeBot manuál se nachází na adrese https://radekmocek.github.io/PDO/
         """)
         await itx.response.send_message(embed=embed_message)
         await MessageView.attach_to_message(None,
                                             await itx.original_response(),
                                             itx.user,
-                                            [UrlGitBookButton(), UrlGitHubButton(), UrlGoogleFormsButton()])
+                                            [UrlManualButton(), UrlGitHubButton()])
 
     @app_commands.command()
     async def ping(self, itx: discord.Interaction) -> None:
         """Ověřit dostupnost bota."""
         # Základní informace
         description = (
-            f"```Prodleva         {round(self.bot.latency * 1000)} ms```"
-            f"```Uptime           {self.bot.get_uptime()}```"
-            f"```Pčt. serverů     {len(self.bot.guilds)}```"
-            f"```Hosting OS       {platform.system()} {platform.release()}```"
-            f"```Python verze     {platform.python_version()}```"
+            f"`Prodleva . . . . . . {round(self.bot.latency * 1000)} ms`\n"
+            f"`Uptime . . . . . . . {self.bot.get_uptime()}`\n"
+            f"`Pčt. serverů . . . . {len(self.bot.guilds)}`\n"
+            f"`Hosting OS . . . . . {platform.system()} {platform.release().split('-')[0]}`\n"
+            f"`Python verze . . . . {platform.python_version()}`\n\n"
         )
         # Informace o balíčcích
         packages = txt_read("requirements.txt")

diff --git a/Bot/d_modules/common_modules.py b/Bot/d_modules/common_modules.py
@@ -7,7 +7,6 @@ import discord
 
 import d_modules.permissions as permissions
 import utils.db_io as database
-from d_modules.bot import SECRET1
 
 
 # region Common Buttons
@@ -43,19 +42,14 @@ class CustomExitButton(discord.ui.Button):
         await self.view.exit(itx)
 
 
-class UrlGitBookButton(discord.ui.Button):
+class UrlManualButton(discord.ui.Button):
     def __init__(self) -> None:
-        super().__init__(label="GitBook", url="https://lingebot.gitbook.io/lingebot-napoveda/")
+        super().__init__(label="LingeBot manuál", url="https://radekmocek.github.io/PDO/")
 
 
 class UrlGitHubButton(discord.ui.Button):
     def __init__(self) -> None:
-        super().__init__(label="GitHub", url="https://github.com/RadekMocek/BP/issues")
-
-
-class UrlGoogleFormsButton(discord.ui.Button):
-    def __init__(self) -> None:
-        super().__init__(label="DOTAZNÍK", url=SECRET1)
+        super().__init__(label="GitHub repozitář", url="https://github.com/RadekMocek/BP/")
 
 
 # endregion

diff --git a/Thesis/code/syntaxhighlight.tex b/Thesis/code/syntaxhighlight.tex
@@ -44,6 +44,16 @@
     morendkeywords={onSlashCommandInteraction, getName, equals, getOption, getAsInt, reply, addActionRow, queue}
 }
 
+% Pseudokód
+\lstdefinelanguage{Pseudo1}{
+  emph={Funkce, vrací, Vrať, false, Pokud},
+  emphstyle=\textbf,
+  keywords={text, nahradit_zlomky, čitatel, jmenovatel},
+  ndkeywords={__approx_tex_len, __approx_tex_frac_replace, maximum},
+  morestring=[d]",
+  comment=[l]{Krok},
+}
+
 % Highlight českých znaků
 \makeatletter
 \lst@InputCatcodes
@@ -58,6 +68,13 @@
 	^^e0^^e1^^e2^^e3^^e4^^e5^^e6^^e7^^e8^^e9^^ea^^eb^^ec^^ed^^ee^^ef
 	^^f0^^f1^^f2^^f3^^f4^^f5^^f6^^f7^^f8^^f9^^fa^^fb^^fc^^fd^^fe^^ff
 	^^^^010c^^^^010d% č
+    ^^^^0158^^^^0159% ř
+    ^^^^011a^^^^011b% ě
+    ^^^^010e^^^^010f% ď
+    ^^^^0160^^^^0161% š
+    ^^^^016e^^^^016f% ů
+    ^^^^0147^^^^0148% ň
+    ^^^^0164^^^^0165% ť
 	^^00}
 \lst@RestoreCatcodes
 \makeatother

diff --git a/Bot/d_modules/bot.py b/Bot/d_modules/bot.py
@@ -12,7 +12,6 @@ __config = json_read("config.json")
 __IS_PRODUCTION = __config["isProduction"]
 # Botův ověřovací token pro komunikaci s Discord API
 TOKEN = __config["tokenProduction"] if __IS_PRODUCTION else __config["tokenTesting"]
-SECRET1 = __config["secret1"]
 
 
 class LingeBot(commands.Bot):
